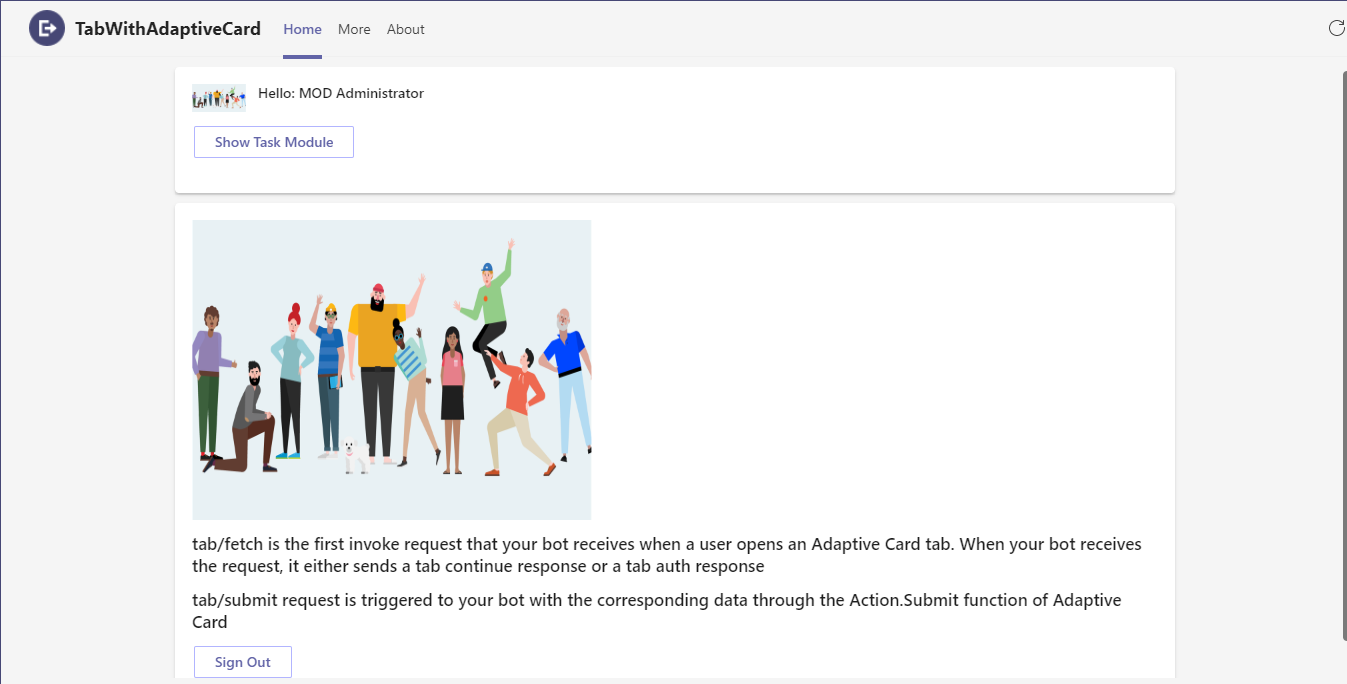
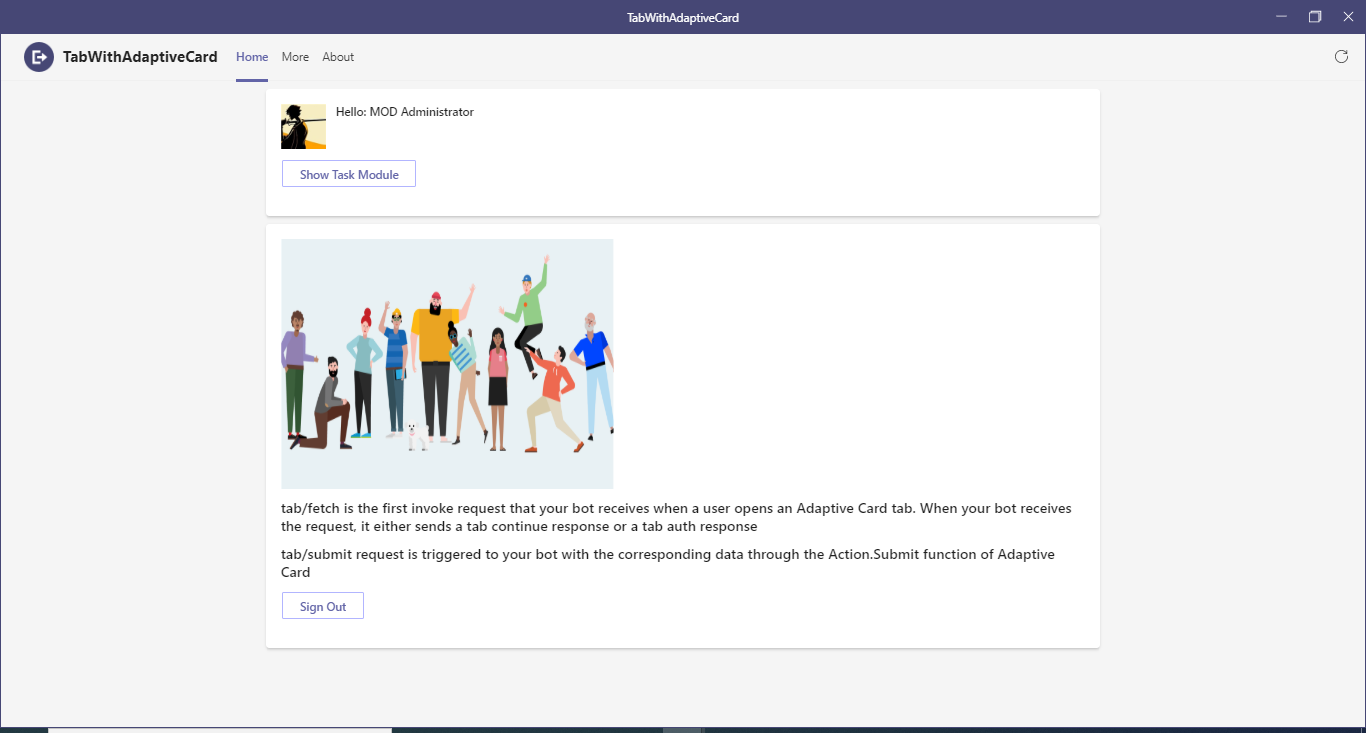
writing user profile image to Images folder and using it in adaptive card Adding comments in code

diff --git a/samples/tab-adaptive-cards/nodejs/server/models/adaptiveCard.js b/samples/tab-adaptive-cards/nodejs/server/models/adaptiveCard.js
@@ -1,4 +1,5 @@
 const { StatusCodes } = require('botbuilder');
+var fs = require("fs");
 
 // Card response for authentication
 const createAuthResponse = (signInLink) => {
@@ -48,14 +49,21 @@ const invokeTaskResponse = () => {
 // Card response for tab fetch request
 const createFetchResponse = async (userImage, displayName) => {
     console.log("Create Invoke response");
-    var profileImageUrl = '';
+    var imageString = '';
 
-    // Converting image of Blob type to base64 string for rendering as image.
-    await userImage.arrayBuffer().then(result => {
-        console.log(userImage.type);
-        const imageBytes = Buffer.from(result).toString('base64');
-        profileImageUrl = `data:${userImage.type};base64,${imageBytes}`;
-    }).catch(error => { console.log(error) });
+    if (userImage) {
+        // Converting image of Blob type to base64 string for rendering as image.
+        await userImage.arrayBuffer().then(result => {
+            console.log(userImage.type);
+            imageString = Buffer.from(result).toString('base64');
+            if (imageString != '') {
+                // Writing file to Images folder to use as url in adaptive card
+                fs.writeFileSync("Images/profile-image.jpeg", imageString, { encoding: 'base64' }, function (err) {
+                    console.log("File Created");
+                });
+            }
+        }).catch(error => { console.log(error) });
+    }
 
     const res = {
         status: StatusCodes.OK,
@@ -65,7 +73,7 @@ const createFetchResponse = async (userImage, displayName) => {
                 "value": {
                     "cards": [
                         {
-                            "card": getAdaptiveCard1(profileImageUrl, displayName),
+                            "card": getAdaptiveCard1(imageString, displayName),
                         },
                         {
                             "card": getAdaptiveCard2(),
@@ -107,7 +115,7 @@ const taskSubmitResponse = () => {
     const res = {
         status: StatusCodes.OK,
         body: {
-            "task":{
+            "task": {
                 "value": {
                     "tab": {
                         "type": "continue",
@@ -129,6 +137,7 @@ const taskSubmitResponse = () => {
     return res;
 };
 
+// Adaptive Card with user image, name and Task Module invoke action
 const getAdaptiveCard1 = (image, name) => {
     const adaptiveCard1 = {
         $schema: 'http://adaptivecards.io/schemas/adaptive-card.json',
@@ -141,7 +150,7 @@ const getAdaptiveCard1 = (image, name) => {
                         items: [
                             {
                                 "type": "Image",
-                                "url": image ? `${image}` : "https://cdn.vox-cdn.com/thumbor/Ndb49Uk3hjiquS041NDD0tPDPAs=/0x169:1423x914/fit-in/1200x630/cdn.vox-cdn.com/uploads/chorus_asset/file/7342855/microsoftteams.0.jpg",
+                                "url": image && image != '' ? process.env.BaseUrl + "/Images/profile-image.jpeg" : "https://cdn.vox-cdn.com/thumbor/Ndb49Uk3hjiquS041NDD0tPDPAs=/0x169:1423x914/fit-in/1200x630/cdn.vox-cdn.com/uploads/chorus_asset/file/7342855/microsoftteams.0.jpg",
                                 "size": "Medium"
                             }
                         ],
@@ -182,6 +191,7 @@ const getAdaptiveCard1 = (image, name) => {
     return adaptiveCard1;
 }
 
+// Adaptive Card showing sample text and Submit Action
 const getAdaptiveCard2 = () => {
     const adaptiveCard2 = {
         $schema: 'http://adaptivecards.io/schemas/adaptive-card.json',
@@ -222,6 +232,7 @@ const getAdaptiveCard2 = () => {
     return adaptiveCard2;
 }
 
+// Adaptive Card to show in task module
 const adaptiveCardTaskModule = {
     $schema: 'http://adaptivecards.io/schemas/adaptive-card.json',
     body: [
@@ -256,6 +267,7 @@ const adaptiveCardTaskModule = {
     version: '1.4'
 };
 
+// Adaptive Card to show sign out action
 const signOutCard = {
     $schema: 'http://adaptivecards.io/schemas/adaptive-card.json',
     body: [
@@ -271,6 +283,7 @@ const signOutCard = {
     version: '1.4'
 };
 
+// Adaptive Card to show task/submit action
 const taskSubmitCard = {
     $schema: 'http://adaptivecards.io/schemas/adaptive-card.json',
     body: [

diff --git a/samples/tab-adaptive-cards/nodejs/Readme.md b/samples/tab-adaptive-cards/nodejs/Readme.md
@@ -69,6 +69,7 @@ Make sure you've downloaded and installed Ngrok on your local machine. ngrok wil
 
 
 - Update the `.env` configuration for the bot to use the `MicrosoftAppId` (Microsoft App Id) and `MicrosoftAppPassword` (App Password) from the Bot Framework registration. 
+Also update `BaseUrl` according to your code runtime environment.
 > NOTE: the App Password is referred to as the `client secret` in the azure portal and you can always create a new client secret anytime.
 
 - Install modules & Run the `NodeJS` Server 
